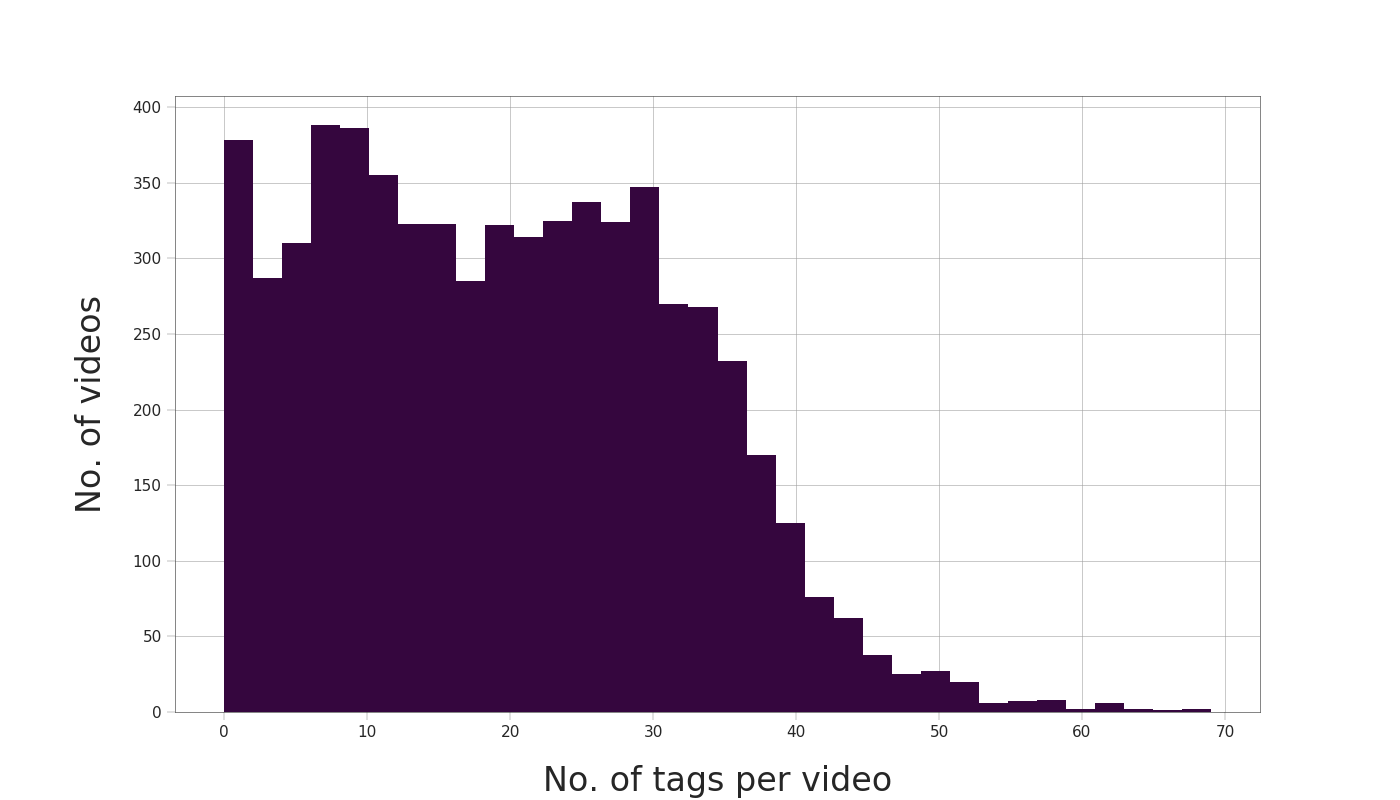
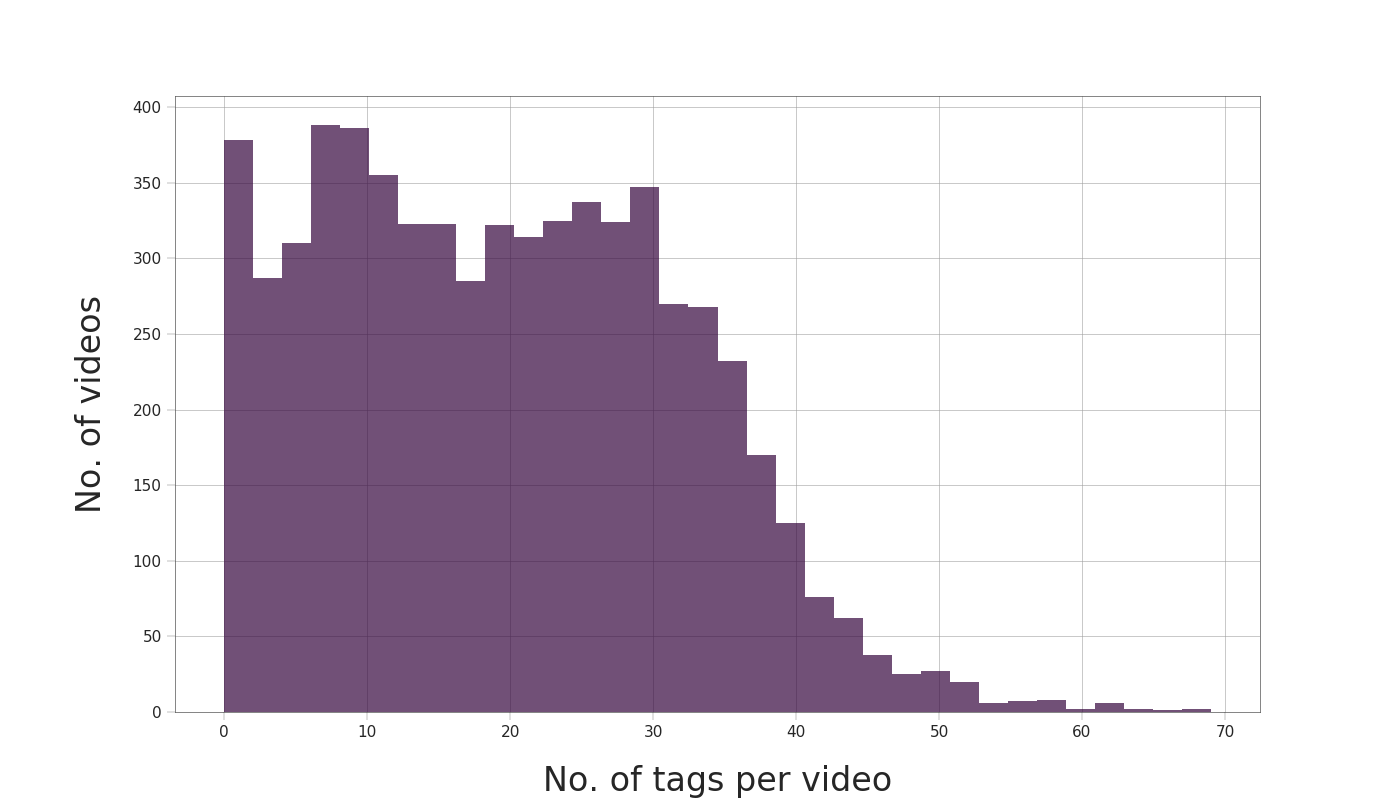
readme progress

Changed region(s): [[0.1536, 0.1562, 0.86, 0.9062]]

diff --git a/src/RunGraph.py b/src/RunGraph.py
@@ -31,7 +31,7 @@ def word_cloud_image(big_string, file_path):
 
 def image_histogram(hist_data, file_path, x_label, y_label):
     fig, ax = plt.subplots()
-    sns.distplot(hist_data, kde=False, rug=False, hist_kws={'alpha': 1}, color='xkcd:dark purple')
+    sns.distplot(hist_data, kde=False, rug=False, hist_kws={'alpha': 0.7}, color='xkcd:dark purple')
     # sns.distplot(hist_data, hist_kws={'alpha': 1}, ax=ax)
     ax.set(xlabel=x_label, ylabel=y_label, xticks=range(0, 80, 10))
     plt.savefig(file_path)
@@ -66,8 +66,8 @@ if __name__ == '__main__':
     all_tags_str = TagsResearch.create_str_from_list(all_tags_list)
     # word_cloud_image(all_tags_str, "images/wc_all_standardstop.png")
 # Tag count per video histogram
-    # image_histogram(df['tags_count'], "images/tag_count_hist.png", 
-    #                 "No. of tags per video", "No. of videos")
+    image_histogram(df['tags_count'], "images/tag_count_hist.png", 
+                    "No. of tags per video", "No. of videos")
 # All tag words histogram 100
     # bar_data = pd.Index(all_tags_list).value_counts().reset_index(name="tag_num").head(100)
     # image_barh(bar_data, "images/all_tags_hist_100.png", 
@@ -75,7 +75,7 @@ if __name__ == '__main__':
     # cdf = df.groupby("channel_title").size().reset_index(name="video_count") \
     # .sort_values("video_count", ascending=False).head(20)
 # All tag words histogram 20
-    bar_20 = pd.Index(all_tags_list).value_counts().reset_index(name="tag_num").head(21)
-    image_barh(bar_20[bar_20['index'] != "[none]"], "images/all_tags_hist_20.png", 
-            "Count of tag appearances", "Freq. of tag appearance")
+    # bar_20 = pd.Index(all_tags_list).value_counts().reset_index(name="tag_num").head(21)
+    # image_barh(bar_20[bar_20['index'] != "[none]"], "images/all_tags_hist_20.png", 
+    #         "Count of tag appearances", "Freq. of tag appearance")
     

diff --git a/README.md b/README.md
@@ -1,13 +1,54 @@
-# TrendTagsGraph
-Capstone1 YouTube trending video EDA and visualization
+# Trending YouTube Video "tags" MetaData Analysis - Jim Frank
+
+_YouTube trending video data from  [Kaggle: Trending YouTube Video Statistics](https://www.kaggle.com/datasnaek/youtube-new) ._
+
+---
+
+## Table of Contents
+1. [Goals - At The Beginning](#goals-at-the-beginning)
+2. [The Data](#the-data)
+3. [EDA - (Exploratory Data Analysis)](#eda-exploratory-data-analysis)
+4. [Data - Cleaning & Selection For Analysis](#data-cleaning--selection-for-analysis)
+5. [Let's Look At The Tag Data](#lets-look-at-tag-data)
+6. [Conclusion](#conclusion)
+
+
+## Goals - At The Beginning
+
+<b>QUESTION: </b> 
+Do topically selected subsets of the trending data have varying characteristics? Basic characteristics such as view count, likes, and tag count.
+
+<b>GOALS: </b> 
+    1. Extracting and manipulating the tags data with effective string processing
+    2. Find within the tags data specific groupings of tags that relate to a particular topic
+    3. Comparing video metadata across selected subsets of the dataset
+
+<b>WHY THIS SET OF GOALS?: </b> 
+How does one effectively and accurately find RELEVANT data hidden within the overwhelming deluge of information now available because of modern "BigData"? In this particular example, we are searching through tags data associated with YouTube. More broadly, it is hoped that the following data processing investigation gives a proper framework for seeking out the proverbial "needle in a haystack."
+
+![needle in haystack](https://hackernoon.com/hn-images/0*3CWZPlNuPWUg5cgu)
+
+## The Data
+
+
+## EDA - (Exploratory Data Analysis)
+
+## Data - Cleaning & Selection For Analysis
+
+## Let's Look At The Tag Data
 
 ![tag count histogram](https://github.com/truejimfrank/TrendTagsGraph/blob/master/images/tag_count_hist.png)
+<sub><b>Figure: </b> Count of videos in database binned by No. of tags listed with the video. </sub>
 
 ![wordcloud all tags](https://github.com/truejimfrank/TrendTagsGraph/blob/master/images/wc_all_standardstop_r.png)
+<sub><b>Figure: </b> WordCloud of all words contained in tags for the dataset. (A generic stopwords list has been used.) </sub>
 
 ![bar20 all tags](https://github.com/truejimfrank/TrendTagsGraph/blob/master/images/all_tags_hist_20_crop.png)
+<sub><b>Figure: </b> Shows the 20 most used tags in the dataset. </sub>
 
 ![bar100 all tags](https://github.com/truejimfrank/TrendTagsGraph/blob/master/images/all_tags_hist_100_crop.png)
+<sub><b>Figure: </b> The 100 most used tags in the dataset. </sub>
 
-![youtube vid image](https://i.ytimg.com/vi/1CR0QmCaMTs/maxresdefault.jpg)
-[name of link to youtube video](https://www.youtube.com/watch?v=1CR0QmCaMTs)
+## Conclusion
+
+

diff --git a/notebooks/markdown_temp.md b/notebooks/markdown_temp.md
@@ -1,0 +1,54 @@
+# templates to use
+
+# Italics
+_The text to make italicized_
+
+# Internet Link
+[name of link to youtube video](https://www.youtube.com/watch?v=1CR0QmCaMTs)
+
+# Image File 
+![tag count histogram](https://github.com/truejimfrank/TrendTagsGraph/blob/master/images/tag_count_hist.png)
+# YouTube video thumbnail
+![youtube vid image](https://i.ytimg.com/vi/1CR0QmCaMTs/maxresdefault.jpg)
+# Divider Line
+---
+
+# Python Code
+```python
+import networkx as nx
+from src.example_graphs import simple_undirected_graph
+
+# The dictionary graph shown earlier
+simple_graph = simple_undirected_graph()
+G = nx.from_dict_of_lists(simple_graph)
+```
+
+# alternate image post format (width and height optional)
+<img src="images/toy-graph-1.png" alt="Toy Undirected Graph" width="400" height="400">
+
+# FIGURE name below a picture (<b>bold text here<b>)
+<sub><b>Figure: </b> A toy undirected graph that I used for developing custom graph classes. There was a lot of whiteboard doodling during this project. </sub>
+
+# TABLE with bold column names
+| subreddit | In-Degree (Uniques) | In-Degree (Total) |
+| --- | --- | --- |
+| askreddit | 5448 | 24295 |
+| iama | 4508 | 11624 |
+| pics | 3335 | 11728 |
+| gaming | 1746 | 5584 |
+| news | 1610 | 7005 |
+| gifs | 1591 | -- |
+| politics | -- | 5511 |
+
+## Table of Contents (with links to section headings)
+1. [Motivation](#motivation)
+2. [The Data](#the-data)
+3. [Graph Theory Terminology](#graph-theory-terminology)
+4. [Representing the Data Computationally](#representing-the-data-computationally)
+5. [Questions & Answers](#questions--answers)
+    * [Who's the most connected? (Max Degree: In-Degree and Out-Degree)](#whos-the-most-connected-max-degree-in-degree-and-out-degree)
+    * [How many distinct networks are there? (Component Analysis)](#how-many-distinct-networks-are-there-component-analysis)
+
+## Representing the Data Computationally
+## Questions & Answers
+### Who's the most connected? (Max Degree: In-Degree and Out-Degree)
